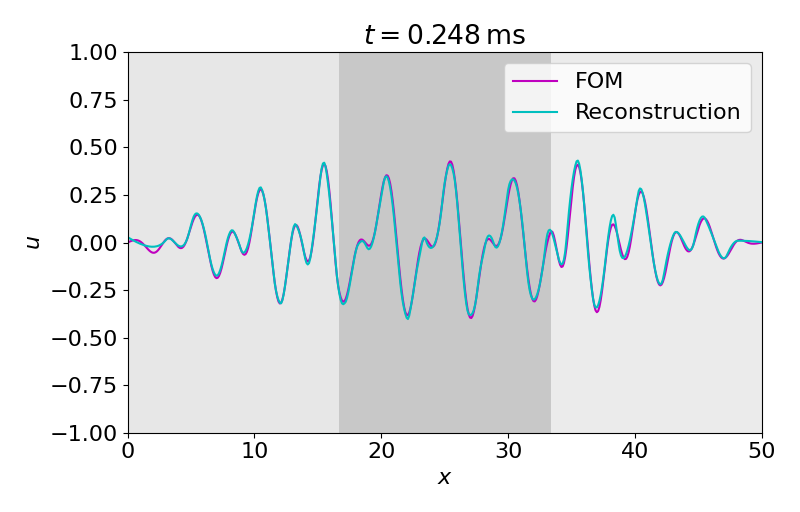
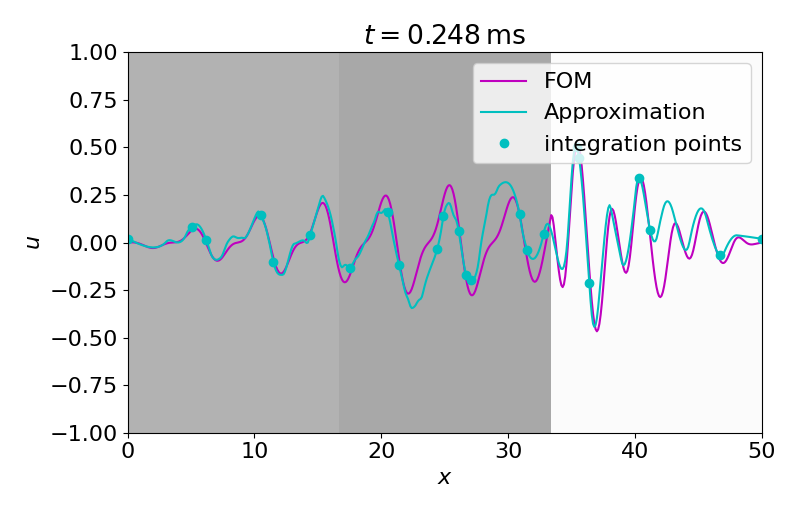
fix code and update results

diff --git a/content/post/crom/code/diffusion.py b/content/post/crom/code/diffusion.py
@@ -349,7 +349,7 @@ i_sample = 248
 i_test = 0
 support_point_indices = [0, 51, 205, 315, 261, 214, 144, 356, 267, 115, 271, 244, 309,  62, 364,
         412, 467, 249, 403, 175, 328, 105, 354, 500]
-support_point_indices = range(100)
+# support_point_indices = range(Nx+1)
 Nsupport = len(support_point_indices)
 
 x_support = torch.from_numpy(x[support_point_indices]*x_factor).float().requires_grad_().view([1, -1])
@@ -381,7 +381,7 @@ def forward(x, z):
 forward = model.decoder
 
 # encode initial condition
-z_init = model.encoder(torch.from_numpy(u_init).float()).detach()
+z_init = model.encoder(torch.from_numpy(u_init).float()).detach().requires_grad_()
 # create latent vector of size (timesteps x (spatial points + 1))
 z = torch.zeros((Nt, r))
 # set initial condition
@@ -392,28 +392,21 @@ def nth_derivative(f, wrt, n):
 
     for i in range(n):
 
-        grads = grad(f, wrt, create_graph=True)[0]
+        grads = grad(f, wrt, create_graph=True, allow_unused=True)[0]
         f = grads.sum()
 
     return grads
 
-x = torch.arange(4, requires_grad=True).reshape(2, 2)
-loss = (x ** 4).sum()
-
-nth_derivative(f=u_old[0, 0], wrt=x_support[0,0], n=2)
-
-
 # Main time-stepping loop
-for t in range(1, Nt):
-    u_old = forward(x_support, z[t-1:t])
+for i_time in range(1, Nt):
+    u_old = forward(x_support, z[i_time-1:i_time])
     # compute the second order spatial gradient using autograd
-    # hessian = torch.func.hessian(forward, argnums=0)(x_support, z[t-1:t])
-    # u_xx = torch.diagonal(torch.diagonal(hessian, dim1=0, dim2=1), dim1=0, dim2=1).detach().squeeze()
-    u_xx2 = (u_old[0, 2:] - 2 * u_old[0, 1:-1] + u_old[0, :-2]) / (dx ** 2)
+    hessian = torch.func.hessian(forward, argnums=0)(x_support, z[i_time-1:i_time]).squeeze()
+    u_xx = torch.diagonal(torch.diagonal(hessian, dim1=0, dim2=1), dim1=0, dim2=1).detach().squeeze()
     # apply boundary conditions
-    # for i, index in enumerate(support_point_indices):
-    #     if index == 0 or index == Nx:
-    #         u_xx[i] = 0
+    for i, index in enumerate(support_point_indices):
+        if index == 0 or index == Nx:
+            u_xx[i] = 0
 
     # get time derivative
     u_t = alpha_support * u_xx
@@ -421,17 +414,16 @@ for t in range(1, Nt):
     # u_new = u_old + dt * u_t
     u_new = u_old + u_t
 
-    # evolve latent variable in time (this part uses the linerized version instead of Gauss-Newton solver)
+    # evolve latent variable in time (this part uses the lineriazed version instead of Gauss-Newton solver)
     res = u_t
-    jac = torch.func.jacrev(forward, argnums=1)(x_support, z[t-1:t]).detach().squeeze()
+    jac = torch.func.jacrev(forward, argnums=1)(x_support, z[i_time-1:i_time]).detach().squeeze()
     vhat = torch.inverse(torch.matmul(jac.transpose(1, 0), jac)).matmul(jac.transpose(1, 0)).matmul(res)
     vhat = vhat.view(1, 1, -1)  # (dim: ? x ? x r)
-    z[t] = z[t-1] + vhat * dt
+    z[i_time] = z[i_time-1] + vhat * dt
 
     # # find z_new that matches u_new the best
     # z[t] = find_best_match(u_new, x_support, z[t-1])
 
-z2 = z.numpy()
 # reconstruct full vector field
 
 u_rec_start = forward(torch.from_numpy(x_factor*x).float().view([1, -1]), z[0:1]).detach().numpy()
@@ -441,6 +433,44 @@ plt.plot(u_rec_start.T)
 plt.plot(u_rec_end.T, "--")
 plt.legend(['start', 'end'])
 plt.show()
+
+# %% Approximation solution
+
+u_rec_test = model.decoder(torch.from_numpy(x_factor*x_test[:150]).float(), z).detach().numpy()
+# create gif of reconstruction
+import imageio
+output_dir = ""
+for i_test in range(10):
+    images = []
+    for i in range(i_test*Nt, (i_test+1)*Nt):
+        # figure without gui
+        plt.ioff()
+        # plot with gui
+
+        fig = plt.figure(figsize=(8, 8*0.64))
+        plt.plot(x_test[0], u_test[i], 'm', label='FOM')
+        plt.plot(x_test[0], u_rec_test[i], 'c', label='Approximation')
+        plt.plot(x_test[0, support_point_indices], u_rec_test[i, support_point_indices], 'co', label='integration points')
+        plt.axvspan(x_test[0, 0], x_test[0, 167], facecolor='grey', alpha=samples_test[i_test, 0]/samples_test.max())
+        plt.axvspan(x_test[0, 1*167], x_test[0, 2*167], facecolor='grey', alpha=samples_test[i_test, 1]/samples_test.max())
+        plt.axvspan(x_test[0, 2*167], x_test[0, -1], facecolor='grey', alpha=samples_test[i_test, 2]/samples_test.max())
+        plt.xlabel('$x$')
+        plt.ylabel('$u$')
+        plt.ylim([-1, 1])
+        plt.xlim([0, x_test.max()])
+        # legend with fixed position upper right
+        plt.legend(loc='upper right', bbox_to_anchor=(1.0, 1.0))
+        plt.title(f'$t={t[i%Nt]*1000:.3f}\,$ms')
+        # increase font size
+        plt.rcParams.update({'font.size': 16})
+        # increase label and tick size
+        plt.tick_params(axis='both', which='major', labelsize=16)
+        plt.tight_layout()
+        fig.savefig('gifs/tmp.png')
+        images.append(imageio.imread('gifs/tmp.png'))
+    # repeated gif
+    imageio.mimsave(f'gifs/diffusion_approx_test_{i_test+1}.gif', images, loop=1)
+
 
 
 plt.plot(z[:, 0])

diff --git a/content/post/crom/index.md b/content/post/crom/index.md
@@ -363,8 +363,10 @@ for t in range(1, Nt):
     # find z_new that best matches to u_new
     z[t] = ?
 ```
-From this time series, we can reconstruct the full vector field at arbitrary points {{< math >}}$x\in\Omega${{< /math >}}.
-Please note that the presented code does only serve academic and illustrative purposes and is neither optimized nor complete. For a general implementation please refer to the official [github page](https://crom-pde.github.io). 
+From this time series, we can reconstruct the full vector field at arbitrary points {{< math >}}$x\in\Omega${{< /math >}}. An example result for a test scenario can be seen in the following gif.
+{{< figure src="diffusion_approx_test_1.gif" caption="Approximation of the full vector field for test data." numbered="true" id="ae">}}
+Although the results is not perfect yet, one can see the potential. The noticable errors results from a model that is not optimized to the full extent and from the linearization that is used to find the optimal {{< math >}}$z_{i+1}${{< /math >}}.
+Please also note that the presented code does only serve academic and illustrative purposes and is neither optimized nor complete. For a general implementation and high quality results please refer to the official [github page](https://crom-pde.github.io). 
 
 ### Concluding Remarks
 CROM is a very powerful discretization-free ROM scheme for PDEs. The authors showed that it can outperform conventional approaches regarding accuracy and resource demands while offering adaptive spatial resolutions. Nevertheless, it shares some limitations with classic data-driven ROM approaches like the dependency on the training data, i.e. it won't generalize well to unseen scenarios. 
